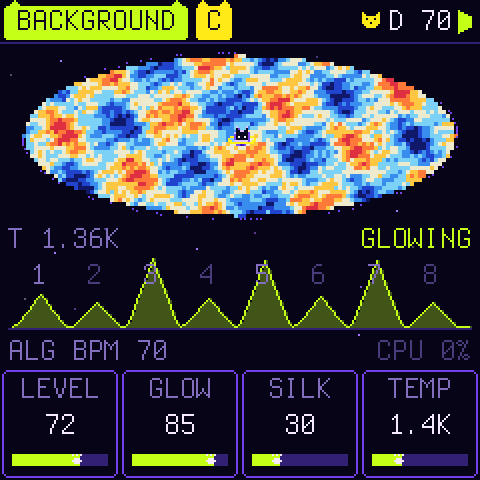
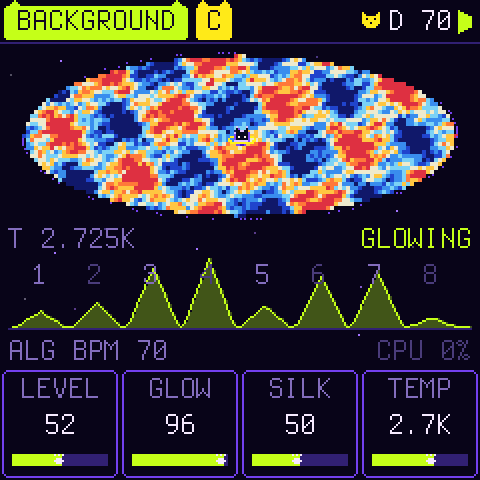
The background radiation, ambient: an open chord that breathes, its hiss, and it cools in
The user heard a nasal drone. Now: an open chord on one harmonic series (C2 G2 C3 G3 C4 D4 G4 C5 on C: fifths,
octaves, a ninth, no crowded thirds), so still nothing in it can clash (0.999 of its energy on it); DRIFT, each voice
breathing on its own and wandering a few cents, the chord turning inside itself; HISS in BARYON's place, the static it
was first heard as; slower swells (~3 s), and swelling in from silence it cools from an octave above onto its note.
MILKY WAY and AFTERGLOW with more of it in the nebula.

Claude-Session: https://claude.ai/code/session_01MBzS5ck6dSUhqzvwoDkeYc

diff --git a/firmware/src/orb_engine.h b/firmware/src/orb_engine.h
@@ -119,10 +119,11 @@ typedef struct {
     uint8_t ox, oy, orad, orate;            /* the orbit pad: centre, radius, period (ORB_SYNC_*) */
     uint8_t lrate[2], lshape[2], lsync[2];  /* LFO 1 and 2: rate (free 0..99, synced ORB_SYNC_* index), shape */
     orb_mod_t mod[ORB_NMOD];
-    /* BACKGROUND RADIATION (a pad under everything, the sun's harmonic series from every side): its level, its glow
-     * into NEBULA, Silk damping (the high peaks), baryon loading (the odd peaks over the even), anisotropy (its tiny
-     * fluctuations), the low cut (of it, and of what goes into NEBULA); its temperature: the octave, -2..1 */
-    uint8_t bg_level, bg_glow, bg_silk, bg_baryon, bg_aniso, bg_cut;
+    /* BACKGROUND RADIATION (an ambient pad under everything, an open chord on one harmonic series, from every side):
+     * its level, its glow into NEBULA, Silk damping (its highs softer), its hiss (the static it was first heard as),
+     * its drift (how deeply each voice breathes on its own, and wanders a few cents), the low cut (of it, and of what
+     * goes into NEBULA); its temperature: the octave, -2..1 */
+    uint8_t bg_level, bg_glow, bg_silk, bg_hiss, bg_aniso, bg_cut;
     int8_t bg_temp;
     uint8_t bloom;                          /* NEBULA's own light back into it: longer, denser, 0..99 */
     uint8_t tired;                          /* TIRED LIGHT: each echo a just interval redder (ORB_TIRED_*), 0 off */
@@ -220,7 +221,10 @@ typedef struct {
      * (and their steps a half-rate frame), pans, fluctuations (and their targets); the swell; its output */
     uint32_t bg_ph[ORB_NBG], bg_inc[ORB_NBG], bg_pan[ORB_NBG];
     int32_t bg_a[ORB_NBG], bg_as[ORB_NBG], bg_gl[ORB_NBG], bg_gr[ORB_NBG], bg_fl[ORB_NBG], bg_ft[ORB_NBG];
-    int32_t bg_env, bg_on, bg_glow, bg_ol[2], bg_or[2], bg_g[ORB_NBG];   /* bg_g: Silk, baryons, the low cut (Q15) */
+    int32_t bg_env, bg_on, bg_glow, bg_ol[2], bg_or[2], bg_g[ORB_NBG];   /* bg_g: its shape: Silk, the low cut (Q15) */
+    int32_t bg_pd[ORB_NBG], bg_pt[ORB_NBG];   /* each voice's wandering pitch (and where it wanders to), +-32767 */
+    int32_t bg_cool, bg_hg, bg_h[4];        /* cooling: an octave above at the start, down in ~2 s; the hiss: its gain, filters */
+    uint32_t bg_rng;
     uint32_t bg_k;
     /* TIRED LIGHT: the feedback's slow-down (Q16 a frame), its ramp (Q16), the shifted taps' tone */
     uint32_t z_rate, z_p;
@@ -1041,61 +1045,71 @@ static void orb_fx_tick(orb_t *o)
      * peaks taller with baryons, the high ones damped by photon diffusion, Silk's), from every side, its tiny
      * fluctuations drifting; it swells in while the orrery plays and fades when it stops */
     {
-        static const uint8_t NUM[ORB_NTUNING][ORB_NBG] = {{1, 2, 3, 4, 5, 6, 7, 8}, {1, 2, 3, 4, 5, 6, 7, 8},
-            {3, 4, 6, 8, 12, 16, 0, 0}, {1, 2, 3, 4, 5, 6, 8, 10}, {1, 2, 3, 4, 5, 6, 8, 10}};   /* (UTONAL: of a third) */
-        static const uint8_t DEN[ORB_NTUNING] = {1, 1, 3, 1, 1};
-        static const int16_t TILT[17] = {0, 32767, 23170, 18918, 16384, 14654, 13377, 12385, 11585, 10923, 10362,
-                                         9880, 9459, 9088, 8757, 8460, 8192};   /* 1 / sqrt(n) */
-        int32_t target = sy->bg_level && o->playing ? 32767 : 0, de = target - o->bg_env, st = orb_rz(de, 11);
+        /* an open chord, all on one harmonic series (so nothing in it can clash): of the sun two octaves down, 2 3 4 6
+         * 8 9 12 16, the root, fifths and octaves over four octaves and a ninth (C2 G2 C3 G3 C4 D4 G4 C5 on C); in
+         * UTONAL, of the sun's third below: 1, 4/3, 2, 8/3, 4, 16/3, 8, 32/3 */
+        static const uint8_t NUM[ORB_NTUNING][ORB_NBG] = {{2, 3, 4, 6, 8, 9, 12, 16}, {2, 3, 4, 6, 8, 9, 12, 16},
+            {3, 4, 6, 8, 12, 16, 24, 32}, {2, 3, 4, 6, 8, 9, 12, 16}, {2, 3, 4, 6, 8, 9, 12, 16}};
+        static const uint8_t DEN[ORB_NTUNING] = {4, 4, 3, 4, 4};
+        static const int16_t TILT[ORB_NBG] = {22937, 26214, 32767, 29491, 24576, 19661, 16384, 11469};   /* a gentle hump */
+        int32_t target = sy->bg_level && o->playing ? 32767 : 0, de = target - o->bg_env, st = orb_rz(de, 12);
         uint32_t k, live = 0;
         if (!st && de) st = de > 0 ? (de < 16 ? de : 16) : (de > -16 ? de : -16);   /* (the last of it: never past) */
-        o->bg_env += st;                          /* (~1.5 s in, ~1.5 s out) */
+        if (!o->bg_env && target) o->bg_cool = 32767;   /* from silence: the first light cools in, an octave down */
+        o->bg_env += st;                          /* (~3 s in, ~3 s out) */
+        {   /* (down to the note exactly: the last of it in steps, never past) */
+            int32_t cs = orb_rz(-o->bg_cool, 10);
+            if (!cs && o->bg_cool) cs = o->bg_cool > 16 ? -16 : -o->bg_cool;
+            o->bg_cool += cs;
+        }
         for (k = 0; k < ORB_NBG; k++) live |= (uint32_t)o->bg_a[k];
         o->bg_on = o->bg_env > 0 || live;
         if (!o->bg_on) { o->bg_ol[0] = o->bg_ol[1] = o->bg_or[0] = o->bg_or[1] = 0; }
         if (o->bg_on) {
             uint32_t t = sy->tuning % ORB_NTUNING, fi, cinc;
-            int32_t temp = orb_clamp(sy->bg_temp, -2, 1), lvl = orb_lin(sy->bg_level), sl, bar, an;
-            fi = orb_inc((48 + 12 * temp + (int32_t)(sy->sun % 12u)) * 256) * 2u / DEN[t];   /* C3 + the sun, half rate */
+            int32_t temp = orb_clamp(sy->bg_temp, -2, 1), lvl = orb_lin(sy->bg_level), sl, an;
+            fi = orb_inc((48 + 12 * temp + (int32_t)(sy->sun % 12u)) * 256) * 2u / DEN[t];   /* of C3 + the sun, half rate */
             cinc = (uint32_t)(20 + (int32_t)sy->bg_cut * 4) * 194783u;   /* the low cut's frequency, as a step */
             lvl = (int32_t)(((lvl * lvl) >> 15) * (o->bg_env >> 0) >> 15);
-            sl = (int32_t)sy->bg_silk * sy->bg_silk / 40;
-            bar = (int32_t)sy->bg_baryon * 331;           /* Q15 */
-            an = (int32_t)sy->bg_aniso * 200;             /* the fluctuations' depth, up to ~0.6 */
+            sl = (int32_t)sy->bg_silk * sy->bg_silk / 25;
+            an = (int32_t)sy->bg_aniso * 331;             /* DRIFT, Q15 */
             o->bg_glow = orb_lin(sy->bg_glow);
-            if ((o->bg_k & 127u) == 0u) {         /* a new fluctuation for one partial each 93 ms */
-                uint32_t q = (o->bg_k >> 7) % ORB_NBG;
-                o->bg_ft[q] = (int32_t)(orb_xs(&o->rng) >> 17) - 16384;
+            o->bg_hg = (int32_t)(((int64_t)orb_lin(sy->bg_hiss) * orb_lin(sy->bg_hiss) >> 15) * lvl >> 16);
+            if ((o->bg_k & 511u) == 0u) {         /* each voice in turn, every ~3 s: where it breathes to, and wanders */
+                uint32_t q = (o->bg_k >> 9) % ORB_NBG, x = orb_xs(&o->rng);
+                o->bg_ft[q] = (int32_t)(x >> 17);              /* 0 .. 32767 */
+                o->bg_pt[q] = (int32_t)((x & 0xFFFFu) >> 0) - 32768;
             }
             o->bg_k++;
             for (k = 0; k < ORB_NBG; k++) {
                 uint32_t n = NUM[t][k], tinc = fi * n;
                 int32_t a, d;
-                o->bg_fl[k] += orb_rz((o->bg_ft[k] - o->bg_fl[k]), 10);
+                o->bg_fl[k] += orb_rz((o->bg_ft[k] - o->bg_fl[k]), 11);   /* (~1.5 s a breath) */
+                o->bg_pd[k] += orb_rz((o->bg_pt[k] - o->bg_pd[k]), 12);
                 o->bg_pan[k] += 90000u + k * 31000u;       /* each drifts round (~0.03 .. 0.06 Hz) */
                 if ((o->bg_k & 3u) == (k & 3u) || !o->bg_gl[k]) {   /* (two a tick: they move slowly) */
                     uint32_t th = 0x20000000u + (uint32_t)(orb_sin(o->bg_pan[k] + k * 0x3A000000u) * 0x3000);
                     o->bg_gl[k] = orb_cos(th);    /* from every side: its pan swings +-34 degrees about the middle */
                     o->bg_gr[k] = orb_sin(th);
                 }
-                if (!n) a = 0;
-                else {
-                if (!o->bg_inc[k]) o->bg_inc[k] = tinc;
-                o->bg_inc[k] += (uint32_t)orb_rz((int32_t)(tinc - o->bg_inc[k]), 9);   /* a moved sun: it glides */
-                if ((o->bg_k & 7u) == k || !o->bg_g[k]) {   /* its shape: one partial a tick (they move with a knob) */
-                    a = TILT[n > 16u ? 16u : n];
-                    a = (a * (int32_t)(2147418112u / (65536u + n * n * (uint32_t)sl))) >> 15;   /* Silk: the high damped */
-                    d = n & 1u ? 32767 + bar / 2 : 32767 - (bar * 4) / 5;   /* baryons: the odd peaks taller */
-                    a = (int32_t)(((int64_t)a * d) >> 15);
-                    if (sy->bg_cut) {             /* the low cut on each partial: (f/fc)^2 / (1 + (f/fc)^2) */
+                {   /* its pitch: on the series, a few cents astray as it drifts (+-3.4 at DRIFT 99), cooling down */
+                    int32_t det = (int32_t)((((int64_t)(tinc >> 9) * o->bg_pd[k]) >> 15) * an >> 15);
+                    uint32_t ti = tinc + (uint32_t)det + (uint32_t)(((int64_t)tinc * o->bg_cool) >> 15);
+                    if (!o->bg_inc[k]) o->bg_inc[k] = ti;
+                    o->bg_inc[k] += (uint32_t)orb_rz((int32_t)(ti - o->bg_inc[k]), 9);   /* a moved sun: it glides */
+                }
+                if ((o->bg_k & 7u) == k || !o->bg_g[k]) {   /* its shape: one voice a tick (they move with a knob) */
+                    a = TILT[k];
+                    a = (a * (int32_t)(2147418112u / (65536u + (k + 1u) * (k + 1u) * (uint32_t)sl))) >> 15;   /* SILK */
+                    if (sy->bg_cut) {             /* the low cut on each voice: (f/fc)^2 / (1 + (f/fc)^2) */
                         uint32_t r = cinc / ((tinc >> 8) | 1u);   /* fc / f, Q8 */
                         a = (int32_t)(((int64_t)a * (int32_t)(2147418112u / (65536u + r * r))) >> 15);
                     }
                     o->bg_g[k] = a > 0 ? a : 1;
                 }
-                a = (int32_t)(((int64_t)o->bg_g[k] * (32768 + ((o->bg_fl[k] * an) >> 15))) >> 15);
+                /* DRIFT: each voice breathes on its own, deeper the more: voices come and go, the chord turns inside */
+                a = (int32_t)(((int64_t)o->bg_g[k] * (32767 - ((an * (32767 - o->bg_fl[k])) >> 15))) >> 15);
                 a = (int32_t)(((int64_t)a * lvl) >> 17);   /* (8 of them: a quarter each at most, then the level) */
-                }
                 d = a - o->bg_a[k];
                 if (d < 16 && d > -16) { o->bg_a[k] = a; o->bg_as[k] = 0; }   /* (the last of a ramp: there) */
                 else o->bg_as[k] = orb_rz(d, 4);  /* (16 half-rate frames a tick: there exactly, never past) */
@@ -1182,6 +1196,15 @@ static void orb_fx_render(orb_t *o, int32_t *out)
                     o->bg_a[k] += o->bg_as[k];
                     bl += (sv * o->bg_gl[k]) >> 15;
                     br += (sv * o->bg_gr[k]) >> 15;
+                }
+                if (o->bg_hg) {             /* the hiss: noise between ~250 Hz and ~1.5 kHz, a different one each side */
+                    int32_t n0 = (int32_t)(orb_xs(&o->bg_rng) >> 17) - 16384, n1 = (int32_t)(orb_xs(&o->bg_rng) >> 17) - 16384;
+                    o->bg_h[0] += orb_rz((n0 - o->bg_h[0]) * 11000, 15);
+                    o->bg_h[1] += orb_rz((n1 - o->bg_h[1]) * 11000, 15);
+                    o->bg_h[2] += orb_rz((o->bg_h[0] - o->bg_h[2]) * 2300, 15);
+                    o->bg_h[3] += orb_rz((o->bg_h[1] - o->bg_h[3]) * 2300, 15);
+                    bl += ((o->bg_h[0] - o->bg_h[2]) * o->bg_hg) >> 15;
+                    br += ((o->bg_h[1] - o->bg_h[3]) * o->bg_hg) >> 15;
                 }
                 rin += (((bl + br) >> 1) * o->bg_glow) >> 15;
                 o->bg_ol[0] = o->bg_ol[1]; o->bg_ol[1] = bl;
@@ -1448,6 +1471,7 @@ static void orb_init(orb_t *o, orb_sys_t *sys, orb_mem_t *mem)
     o->mem = mem;
     o->rng = 0x2545F491u;
     o->vrng = 0x1234567u;
+    o->bg_rng = 0x6A09E667u;
     orb_restart(o);
 }
 

diff --git a/tests/orb_test.c b/tests/orb_test.c
@@ -368,28 +368,31 @@ static void test_cosmic(void)
     orb_system(2, &S);                      /* (HARMONICES, its rings quiet) */
     for (k = 0; k < ORB_NRING; k++) S.ring[k].mute = 1;
     S.tuning = 1; S.sun = 0; S.rmix = 0; S.dmix = 0; S.cut = 99; S.res = 0; S.fmode = 0;
-    S.bg_level = 99; S.bg_glow = 0; S.bg_silk = 20; S.bg_baryon = 40; S.bg_aniso = 60; S.bg_cut = 0; S.bg_temp = 0;
+    S.bg_level = 99; S.bg_glow = 0; S.bg_silk = 20; S.bg_hiss = 0; S.bg_aniso = 60; S.bg_cut = 0; S.bg_temp = 0;
     memset(S.mod, 0, sizeof S.mod);
     orb_init(&O, &S, &MEM);
     orb_play(&O, 1);
-    for (b = 0; b < (uint32_t)(6.0 * 44100 / 256); b++) { memset(out, 0, sizeof out); orb_render(&O, out, 256); }
+    for (b = 0; b < (uint32_t)(10.0 * 44100 / 256); b++) { memset(out, 0, sizeof out); orb_render(&O, out, 256); }
     for (i = 0; i < 8192u; i += 256u) {
         memset(out, 0, sizeof out);
         orb_render(&O, out, 256);
         for (k = 0; k < 256u; k++) x[i + k] = (float)out[2u * k];
     }
-    {
-        double f0 = 440.0 * pow(2.0, (48 - 69) / 12.0), tot = 0, harm = 0, bin = 44100.0 / 8192.0;
+    {   /* the open chord: of C3 / 4, harmonics 2 3 4 6 8 9 12 16 (within 2 bins: its drift a few cents) */
+        static const int H[8] = {2, 3, 4, 6, 8, 9, 12, 16};
+        double f0 = 440.0 * pow(2.0, (48 - 69) / 12.0) / 4.0, tot = 0, harm = 0, bin = 44100.0 / 8192.0;
         static float w[8192];
-        int kk;
+        int kk, h;
         for (i = 0; i < 8192u; i++) w[i] = x[i] * (float)(0.5 - 0.5 * cos(2 * M_PI * i / 8192.0));
         for (kk = 1; kk < 400; kk++) {      /* up to 2.1 kHz */
-            double m = dft_mag(w, 8192, kk), f = kk * bin, n = floor(f / f0 + 0.5);
+            double m = dft_mag(w, 8192, kk), f = kk * bin;
+            int on = 0;
+            for (h = 0; h < 8; h++) if (fabs(f - H[h] * f0) <= 2 * bin) on = 1;
             tot += m * m;
-            if (n >= 1 && n <= 8 && fabs(f - n * f0) <= 4 * bin) harm += m * m;
+            if (on) harm += m * m;
         }
-        printf("background radiation: %.4f of its energy on the sun's harmonics 1..8\n", harm / tot);
-        CHECK(harm / tot > 0.995, "background radiation: %.4f harmonic", harm / tot);
+        printf("background radiation: %.4f of its energy on its chord (one harmonic series)\n", harm / tot);
+        CHECK(harm / tot > 0.99, "background radiation: %.4f on its chord", harm / tot);
         CHECK(tot > 1e3, "background radiation: silent");
     }
     /* NEBULA, all the way: size, decay, BLOOM, no damping, the pad glowing into it; then off: it must die away */

diff --git a/firmware/src/orb_systems.h b/firmware/src/orb_systems.h
@@ -203,12 +203,12 @@ static void orb_system_milky(orb_sys_t *s)
     s->dtime = 7; s->dfb = 45; s->ping = 1; s->dmix = 32; s->rmix = 55; s->rsize = 85; s->rdecay = 74;
     orb_mod_set(s, 0, SRC_CONJ, DST_MOON, 30);
     orb_mod_set(s, 1, SRC_LFO2, DST_ANG, 30);
-    s->bg_level = 46; s->bg_glow = 70; s->bg_silk = 40; s->bg_baryon = 30; s->bg_aniso = 30; s->bg_cut = 30;   /* under it all */
-    s->bloom = 45;
+    s->bg_level = 34; s->bg_glow = 88; s->bg_silk = 55; s->bg_hiss = 18; s->bg_aniso = 75; s->bg_cut = 30;   /* under it all */
+    s->bloom = 60;
 }
 
-/* AFTERGLOW: the oldest light, under everything. The background radiation full (its peaks the sun's harmonics, the odd
- * ones tall), the nebula blooming, echoes that tire, a fourth lower each time; slow orbits of glass at 5:4 and a music
+/* AFTERGLOW: the oldest light, under everything. The background radiation full (an open chord breathing, its hiss), the
+ * nebula blooming, echoes that tire, a fourth lower each time; slow orbits of glass at 5:4 and a music
  * box at 7:4 in the overtone scale, boops at 3:2, a sub at half speed; the keys a tidal bell */
 static void orb_system_afterglow(orb_sys_t *s)
 {
@@ -228,8 +228,8 @@ static void orb_system_afterglow(orb_sys_t *s)
     s->mutate = 12; s->var = 15;
     s->dtime = 7; s->dfb = 55; s->ping = 1; s->dmix = 30; s->rmix = 60; s->rsize = 95; s->rdecay = 80; s->rdamp = 50;
     s->macro[MAC_GRAVITY] = 60; s->macro[MAC_ORBIT] = 20;
-    s->bg_level = 72; s->bg_glow = 85; s->bg_silk = 30; s->bg_baryon = 55; s->bg_aniso = 45; s->bg_cut = 35; s->bg_temp = -1;
-    s->bloom = 85; s->tired = 5;
+    s->bg_level = 52; s->bg_glow = 96; s->bg_silk = 50; s->bg_hiss = 28; s->bg_aniso = 85; s->bg_cut = 35; s->bg_temp = 0;
+    s->bloom = 90; s->tired = 5;
     orb_mod_set(s, 0, SRC_LFO2, DST_ANG, 30);
     orb_mod_set(s, 1, SRC_CONJ, DST_MOON, 30);
 }

diff --git a/firmware/src/orbitrix.c b/firmware/src/orbitrix.c
@@ -298,7 +298,7 @@ static const pd_t PD[NPAGE][9] = {   /* K1..K4, SEL K1..K4, ALGORITHM */
                     {"TIRED", W_SYS, F_TIRED, SO(tired), 0, ORB_NTIRED - 1}, P_NONE, P_NONE, P_NONE, P_BPM},
     [PG_BG] = {{"LEVEL", W_SYS, F_NUM, SO(bg_level), 0, 99}, {"GLOW", W_SYS, F_NUM, SO(bg_glow), 0, 99},
                {"SILK", W_SYS, F_NUM, SO(bg_silk), 0, 99}, {"TEMP", W_SYS, F_TEMP, SO(bg_temp), -2, 1},
-               {"BARYON", W_SYS, F_NUM, SO(bg_baryon), 0, 99}, {"ANISO", W_SYS, F_NUM, SO(bg_aniso), 0, 99},
+               {"HISS", W_SYS, F_NUM, SO(bg_hiss), 0, 99}, {"DRIFT", W_SYS, F_NUM, SO(bg_aniso), 0, 99},
                {"LOW CUT", W_SYS, F_LOWCUT, SO(bg_cut), 0, 99}, {"BLOOM", W_SYS, F_NUM, SO(bloom), 0, 99}, P_BPM},
     [PG_PAD] = {{"X", W_SYS, F_NUM, SO(ox), 0, 99}, {"Y", W_SYS, F_NUM, SO(oy), 0, 99},
                 {"RAD", W_SYS, F_NUM, SO(orad), 0, 50}, {"PERIOD", W_SYS, F_SYNC, SO(orate), 0, ORB_NSYNC - 1},

diff --git a/tools/orb_render.c b/tools/orb_render.c
@@ -241,7 +241,7 @@ int main(int argc, char **argv)
         }
         S.cut = 60; S.res = 50; S.drive = 30;
         S.macro[MAC_TIDE] = 99; S.macro[MAC_HORIZON] = 60; S.hretro = 30;
-        S.bg_level = 80; S.bg_glow = 80; S.bg_cut = 30; S.bg_aniso = 40; S.bloom = 80; S.tired = 6;   /* (the cosmic ones) */
+        S.bg_level = 80; S.bg_glow = 80; S.bg_cut = 30; S.bg_aniso = 40; S.bg_hiss = 40; S.bloom = 80; S.tired = 6;   /* (the cosmic ones) */
         orb_play(&O, 1);
         for (k = 0; k < 4u; k++) orb_note_on(&O, (uint8_t)(k + 1u), orb_key_pitch(&S, 50u + 4u * k, 0, 0), 100);
         for (k = 0; k < 200u; k++) { memset(blk, 0, sizeof blk); orb_render(&O, blk, 256); }

diff --git a/README.md b/README.md
@@ -134,7 +134,7 @@ high ones (Silk damping). ORBITRIX lays it under the music, a huge pad that cann
 
 | | |
 | --- | --- |
-| **BACKGROUND RADIATION** | GLO's page. Eight partials on the sun's harmonic series (in UTONAL, of the sun's third below), so they never beat; each panned and slowly turning, from every side. **SILK** damps the high peaks, **BARYON** lifts the odd over the even, **ANISO** sets its tiny fluctuations, **TEMP** its octave (0.7 K … 5.5 K: Wien's law, twice the temperature, twice the frequency), **LOW CUT** takes its lowest partials away (and what goes into the nebula). It swells in while the orrery plays and glides when the sun moves. **GLOW** feeds it into NEBULA. The page draws its map, warm and cold, and its peaks as they sound. |
+| **BACKGROUND RADIATION** | GLO's page: an ambient pad under it all. An open chord on one harmonic series, so nothing in it can clash: the root, fifths and octaves over four octaves and a ninth (C2 G2 C3 G3 C4 D4 G4 C5 on C), each voice panned and slowly turning, from every side. **DRIFT**: each voice breathes on its own, deeper the more, and wanders a few cents, so voices come and go and the chord turns inside it. **HISS**: the static it was first heard as (Penzias and Wilson, 1965, in a radio antenna), soft and wide. **SILK** softens its highs, **TEMP** is its octave (0.7 K … 5.5 K: Wien's law, twice the temperature, twice the frequency), **LOW CUT** takes its lowest voices away (and what goes into the nebula). It swells in on PLAY over seconds, cooling as it comes (from an octave above, down onto its note: the first light redshifting), fades on STOP, glides when the sun moves. **GLOW** feeds it into NEBULA. The page draws its map, warm and cold, and its voices as they sound. |
 | **BLOOM** | NEBULA's own light back into it: its lines' feedback up towards 0.985 and a little of its wet again through the diffusers. The tail gets far longer and denser at no cost (no new lines); the two never sum past 0.995, so it is stable. The lines now run hotter, rounded once, and saturate softly, so the tail's last 20 dB are heard instead of cut. When the sun moves, the nebula clears a moment, so the old chord's tail does not clash with the new. |
 | **TIRED LIGHT** | HORIZON's second row. Zwicky's 1929 idea, long given up, that light tires on its way and reddens with distance; here it is an echo: what goes round again is read slower than it was written, so each echo comes back a just interval lower than the last (z 0.07 a semitone … z 0.50 a fifth … z 1.00 an octave) and, through the echo's tone, dimmer: redder. |
 
@@ -227,7 +227,7 @@ The first two are to start from, a beat and a lullaby; the others are named afte
 | **GW150914** | 1:2 1:1 3:2 2:1 | the first merger heard: notes chirp up from octaves below and ring down; every second bar it slides a little into the horizon |
 | **ALPHA CEN** | 1:1 4:3 5:3 1:4 | a triple star: the rings pull hard on each other (TIDE), the three-body problem, tuned |
 | **SGR A*** | 1:2 2:3 1:3 3:4 | the black hole at the centre: deep, UTONAL; when the pad's point dips, everything slides in, redshifted and partly backwards |
-| **AFTERGLOW** | 1:2 5:4 7:4 3:2 | the oldest light under everything: the background radiation full (the odd peaks tall), the nebula blooming, echoes that tire a fourth lower each time; glass and a music box in the overtone scale, boops, a sub; the keys a tidal bell |
+| **AFTERGLOW** | 1:2 5:4 7:4 3:2 | the oldest light under everything: the background radiation full (breathing, its hiss), the nebula blooming, echoes that tire a fourth lower each time; glass and a music box in the overtone scale, boops, a sub; the keys a tidal bell |
 
 There are also eight places of your own, U1–U8.
 
@@ -243,7 +243,7 @@ ALGORITHM's value and the load) and K1–K4 as four boxes.
 | **SEQ** | STEPS (SPEED LEN HITS ROT · NOTE DIR PROB LOGIC; the keys as above) → TIME (tempo, swing, mutate, the lanes) |
 | **EDIT** | SOUND (SOUND TONE DECAY LEVEL · OCT PAN SPACE WOBBLE) → ORBIT (ECC SLING ANG SPR · PREC MOON RATIO DUST) → BODY (FALL COLOR PIXEL · LEVEL PAN SEND OCT) → COSMOS (TIDE INSPIRAL INSP-T BEAM) |
 | **ENV** · **LFO** | the envelopes · MOD → LFO |
-| **FX** · **GLO** · **ARP** | FILTER MAP → SPACE → HORIZON (DEPTH SHIFT RETRO GRAIN · TIRED) · BACKGROUND (LEVEL GLOW SILK TEMP · BARYON ANISO LOW CUT BLOOM) → ORBIT PAD · KEYS (mode, tuning, sun, octave, gravity, MIDI channel) |
+| **FX** · **GLO** · **ARP** | FILTER MAP → SPACE → HORIZON (DEPTH SHIFT RETRO GRAIN · TIRED) · BACKGROUND (LEVEL GLOW SILK TEMP · HISS DRIFT LOW CUT BLOOM) → ORBIT PAD · KEYS (mode, tuning, sun, octave, gravity, MIDI channel) |
 | **K1–K4**, **SEL** held | the four values; the second row (the names turn magenta) |
 | **ALGORITHM** | the page's extra, on the hint line (mostly the tempo) |
 | **SELECT** | the focus: K (the keys), A, B, C, D: what the pages edit and the keys play |

diff --git a/docs/orbitrix/DECISIONS.md b/docs/orbitrix/DECISIONS.md
@@ -322,3 +322,22 @@ the CMB cold spot and the "axis of evil" are its unexplained anomalies. Decided:
 - Kept for later, from the reading: the cold spot, the axis of evil (an alignment where none should be), Hawking
   radiation (a black hole's glow, hotter as it shrinks), dark matter's flat rotation curves, the gravitational-wave
   background pulsars hear, lensing's time delays (the Einstein cross's images hours apart).
+
+## D20 — The background radiation, ambient (2026-11-09)
+
+The user, hearing D19's pad: "an incredibly nasal drone; I imagined something much more ambient." It was: eight steady
+sines on harmonics 1..8 crowd the thirds into the middle octave (a formant: nasal), BARYON lifted the odd ones (hollow,
+a clarinet's), and nothing moved. Decided (the user: "bring in ideas you have"):
+
+- **An open chord** on one harmonic series (of the sun two octaves down: 2 3 4 6 8 9 12 16, C2 G2 C3 G3 C4 D4 G4 C5 on
+  C; UTONAL of the sun's third below): fifths, octaves and a ninth over four octaves, no crowded thirds; still nothing in
+  it can clash (tested: 0.999 of its energy on the chord, its drift on). A gentle hump, the middle voices fullest; SILK
+  softer to begin with.
+- **DRIFT** (was ANISO): each voice breathes on its own (a new depth every ~3 s, one voice in turn, ~1.5 s to get
+  there), at 99 coming and going entirely, so the chord turns inside itself; and each wanders a few cents (+-3.4 at 99,
+  slowly), a shimmer, not a beat you notice.
+- **HISS** (in BARYON's place): the static the background was first heard as, in Penzias and Wilson's antenna (1965):
+  noise between ~250 Hz and ~1.5 kHz, a different one each side, under its level.
+- **Slower**: ~3 s in, ~3 s out. And an idea of my own: **cooling**: swelling in from silence it starts an octave up
+  and comes down onto its note in ~2 s (the first light redshifting as the universe cools).
+- MILKY WAY and AFTERGLOW: less of it dry, more into the nebula, more DRIFT, a little HISS.

diff --git a/CLAUDE.md b/CLAUDE.md
@@ -33,7 +33,7 @@
 - The page (`web/`, published by CI from `main` to GitHub Pages): the firmware compiled to WebAssembly
   (`web/app/build.sh`, `web_host.c`), `worklet.js`, `play.js`, `index.html`, `make_site.py`. The app runs as passes
   (`app_start`, `boot_pass`, `app_pass`): keep every loop in it a pass, never a wait. Try the page in Chromium
-  (Playwright, headless) after a change: Start, PLAY skips the legend, the screen and the lights.
+  (Playwright, headless) after a change: Start, PLAY skips the splash, the screen and the lights.
 - Only edit Dinghy's own files (`platform.c`, `gfx.c`, `hal/`, `loader/`, `tools/build.py`) when the task needs it,
   and list the departure in README.md.
 - Name no product or other firmware as a model or an inspiration, anywhere in the repository. Dinghy, Felucca, SLOOP

diff --git a/docs/orbitrix/PLAN.md b/docs/orbitrix/PLAN.md
@@ -115,7 +115,7 @@ pixel stars. Top bar: the page, the system, the tempo and the sun. The bottom: K
 | ENV | ENV | A D S R (ECC AMT, ECC A, ECC D, VEL) |
 | LFO | MOD → LFO | SRC DST AMT (SELECT: the slot) · RATE SHAPE for LFO 1 and 2 |
 | FX | FILTER MAP → SPACE → HORIZON | CUT RES MODE DRIVE · TIME FDBK SIZE MIX (TONE DECAY DAMP ECHO) · DEPTH SHIFT RETRO GRAIN (TIRED) |
-| GLO | BACKGROUND → ORBIT PAD | LEVEL GLOW SILK TEMP (BARYON ANISO LOW CUT BLOOM) · X Y RAD RATE |
+| GLO | BACKGROUND → ORBIT PAD | LEVEL GLOW SILK TEMP (HISS DRIFT LOW CUT BLOOM) · X Y RAD RATE |
 | ARP | KEYS | MODE TUNING SUN OCT |
 
 SELECT turns the focus (K for the keys, A, B, C, D) on every page: what the pages edit, and what the keys play (a
